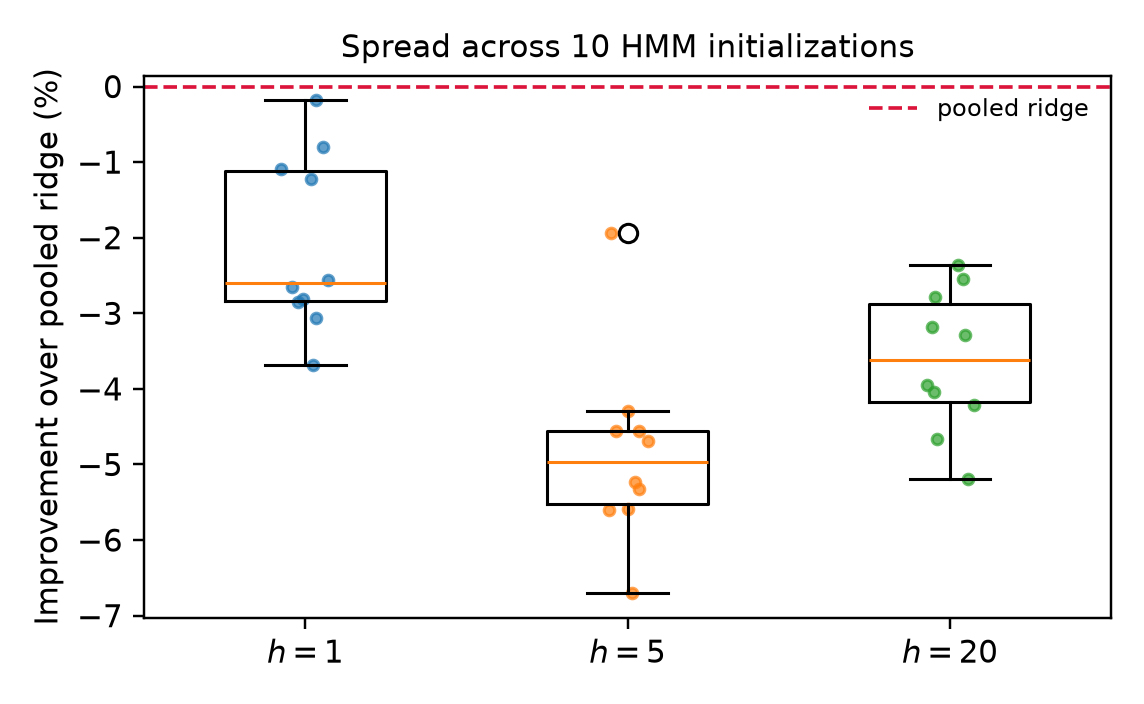
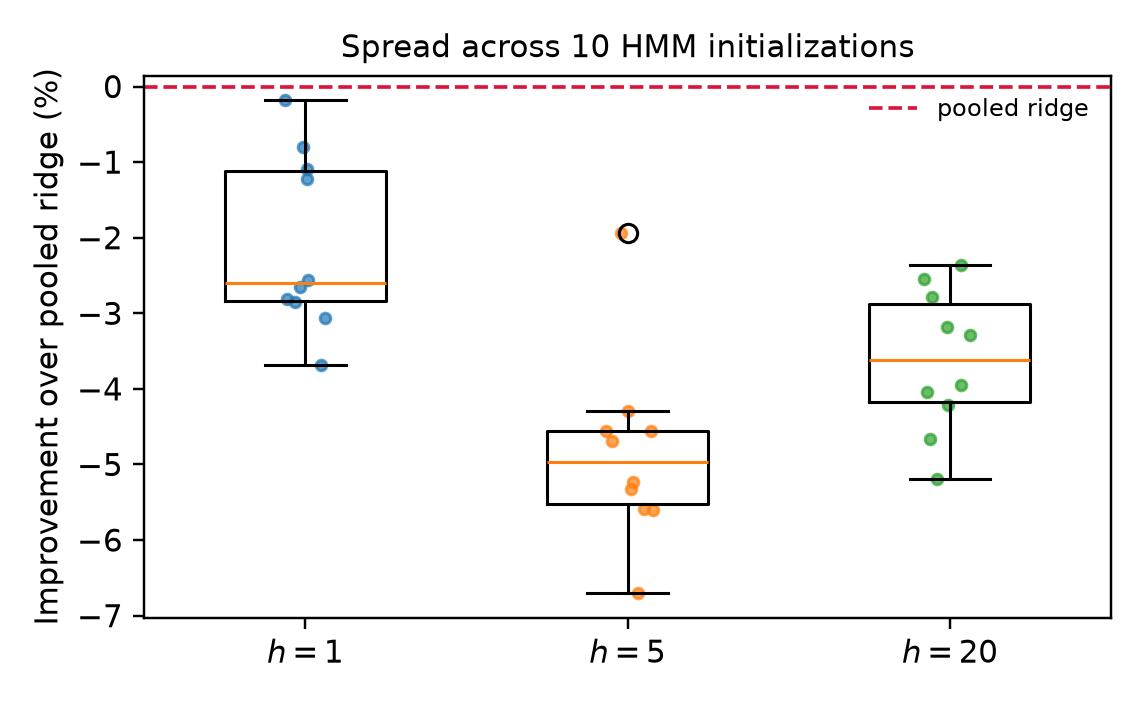
Rename P0 from "as-published" to "our original implementation"
"As-published" implied P0 reconstructed a practice from the literature. It does
not: it is this project's own first implementation, before any correction in the
paper was applied. No published study is claimed to combine all four choices,
and the label should not suggest otherwise.

- Protocol label, figure tick, README row and paper prose updated.
- Added an explicit paragraph in the protocol-ablation section stating what P0
  is and what is and is not being claimed.
- Replaced the "each choice is defensible" paragraph with the sharper point:
  the four compound because they share a sign (all increase the proposed
  model's flexibility relative to its benchmark), and while each failure mode is
  separately documented in the literature, it is the interaction that flips the
  result -- which a checklist applied one item at a time will not catch.
- make_paper_tables now takes stage labels from PROTOCOLS rather than from the
  stored CSV, so rewording a stage no longer requires a 20-minute refit.

Numbers are unchanged.

diff --git a/paper/main.tex b/paper/main.tex
@@ -52,15 +52,16 @@ continuously in trailing realized volatility. We also find that the spread
 induced purely by the HMM's random initialization is of the same order as the
 effect being measured, so single-seed comparisons are uninformative.
 
-We then quantify how a positive result can be manufactured. Starting from a
-protocol that combines four individually plausible choices---a multi-horizon
-target that is really a single-day target at longer lead, an unstandardized
-fixed-penalty baseline, no train/test embargo, and selection of the regime
-hyperparameters on the test score---the regime model shows a statistically
-significant improvement over its baseline. Removing the four choices one at a
-time drives that improvement to zero and then negative; correcting the baseline
-alone is enough to flip the sign. We release the full pipeline and propose a
-short checklist for evaluating regime-switching forecasters.
+We then quantify how a positive result can be manufactured, using this project's
+own first implementation as the starting point. That implementation combined four
+choices---a multi-horizon target that is really a single-day target at longer
+lead, an unstandardized fixed-penalty baseline, no train/test embargo, and
+selection of the regime hyperparameters on the test score---and under it the
+regime model shows a statistically significant improvement over its baseline.
+Removing the four one at a time drives that improvement to zero and then
+negative; correcting the baseline alone is enough to flip the sign. We release
+the full pipeline and propose a short checklist for evaluating regime-switching
+forecasters.
 \end{abstract}
 
 \keywords{volatility forecasting, regime switching, hidden Markov models,
@@ -113,10 +114,10 @@ much of the original effect each methodological shortcut contributed.
     the data costs $2.75$, and the difference is the result. The signal is real
     but is dominated by the cost of the mechanism used to exploit it.
 
-  \item \textbf{A protocol ablation.} We quantify how much apparent improvement
-    is produced by each of four common evaluation shortcuts, and show that they
-    compound: together they turn a $-1\%$ result into a statistically
-    significant $+2\%$ one.
+  \item \textbf{A protocol ablation.} Taking our own first implementation as the
+    starting point, we quantify how much apparent improvement each of four
+    evaluation shortcuts produces, and show that they compound: together they
+    turn a $-4\%$ result into a statistically significant $+2\%$ one.
 
   \item \textbf{Seed sensitivity.} We show that the spread across HMM random
     initializations alone is comparable to the reported effect size, which we
@@ -440,8 +441,16 @@ sides of that trade.
 
 Table~\ref{tab:protocol} and Figure~\ref{fig:protocol} trace the improvement of
 the regime model over its matched pooled-ridge baseline as four methodological
-choices are corrected in sequence, starting from a configuration that combines
-all four. The model is unchanged throughout; only the protocol moves.
+choices are corrected in sequence. The model is unchanged throughout; only the
+protocol moves.
+
+The starting point, P0, is this project's own first implementation, written
+before any of the corrections in this paper were applied. We want to be explicit
+that it is not a reconstruction of any published study, and we make no claim that
+any particular paper combines all four choices. The claim is narrower and, we
+think, more useful: these four are individually easy to make, each survived our
+own code review, and together they produce a significant positive result on a
+method that does not work.
 
 Under P0---aliased target, unstandardized fixed-penalty baseline, no embargo,
 and $K$ and the gating rule chosen by out-of-sample score---the regime model
@@ -455,12 +464,15 @@ single largest correction---and the corrected target (P4) leaves the regime mode
 between $3.4\%$ and $4.4\%$ worse than the pooled ridge, significantly so at
 every horizon.
 
-We want to be precise about what this does and does not show. Each individual
-choice in P0 has a defensible-sounding rationale, and none of them is fraud;
-they are the kind of thing that survives a code review because each looks local
-and harmless. The point is that their effects compound in the same direction,
-because all four increase the flexibility of the proposed model relative to its
-benchmark. The headline number is not robust to any of them.
+The reason they compound is not coincidence: all four increase the flexibility of
+the proposed model relative to its benchmark, so their effects share a sign. That
+is also why no single one of them looks alarming in isolation. The literature has
+documented each failure mode separately---leakage across a train/test boundary
+\cite{lopezdeprado2018, kapoor2023leakage}, selection reported as evaluation
+\cite{bailey2014, harvey2016}, and under-specified baselines
+\cite{dacrema2019}---but the interaction is what turns a $-4\%$ result into a
+significant $+2\%$ one, and interactions are not what a checklist applied one
+item at a time will catch.
 
 \subsection{Does the null hold away from SPY?}
 \label{sec:multiasset}

diff --git a/src/experiments/protocol_ablation.py b/src/experiments/protocol_ablation.py
@@ -1,7 +1,10 @@
 """How much of the apparent regime-switching gain is manufactured by the protocol?
 
-Four methodological choices, each individually defensible-looking, are common in
-applied regime-switching work:
+P0 is this project's own first implementation, before any of the corrections in
+this paper were applied. It is not a reconstruction of any particular published
+study, and we do not claim any specific paper makes all four of these choices
+together. What we can say is that each is individually easy to make and hard to
+notice, and that all four were present in code written in good faith:
 
 P0  the multi-horizon target is a point-in-time transform of the single return
     h days ahead rather than realized volatility over [t+1, t+h];
@@ -15,7 +18,7 @@ P3  the number of regimes and the gating rule are chosen by out-of-sample score,
 This module starts from all four in place and removes them one at a time,
 reporting the regime model's improvement over its matched pooled-ridge baseline
 at each stage. The point is not that any single choice is fatal, but that they
-compound.
+compound, and that the compounded result is statistically significant.
 """
 
 from __future__ import annotations
@@ -53,7 +56,7 @@ class Protocol:
 
 
 PROTOCOLS: tuple[Protocol, ...] = (
-    Protocol("P0", "as-published", "absret", False, False, False),
+    Protocol("P0", "our original implementation", "absret", False, False, False),
     Protocol("P1", "+ tuned/standardized baseline", "absret", True, False, False),
     Protocol("P2", "+ train/test embargo", "absret", True, True, False),
     Protocol("P3", "+ nested selection", "absret", True, True, True),

diff --git a/src/experiments/make_paper_tables.py b/src/experiments/make_paper_tables.py
@@ -259,6 +259,10 @@ def make_regime_characterization_table(run_dir: Path, data: pd.DataFrame) -> Non
 
 
 def make_protocol_table() -> None:
+    from src.experiments.protocol_ablation import PROTOCOLS
+
+    PROTOCOL_LABEL = {p.name: p.label for p in PROTOCOLS}
+
     fp = STUDY / "protocol_ablation" / "protocol_ablation.csv"
     if not fp.exists():
         print(f"[skip] {fp} not found")
@@ -287,7 +291,10 @@ def make_protocol_table() -> None:
         sub = df[df["protocol"] == proto]
         if sub.empty:
             continue
-        label = str(sub.iloc[0]["protocol_label"])
+        # Take the label from the protocol definition rather than from the stored
+        # CSV: the numbers are what the run produced, but the wording of a stage
+        # should not require a 20-minute refit to change.
+        label = PROTOCOL_LABEL.get(proto, str(sub.iloc[0]["protocol_label"]))
         cells = []
         for h in HORIZONS:
             r = sub[sub["horizon"] == h]
@@ -360,7 +367,7 @@ def make_protocol_figure() -> None:
     ax.axhline(0, color="black", lw=1)
     ax.set_xticks(xs)
     ax.set_xticklabels(
-        ["P0\nas-published", "P1\n+baseline", "P2\n+embargo", "P3\n+nested sel.", "P4\n+RV target"],
+        ["P0\noriginal", "P1\n+baseline", "P2\n+embargo", "P3\n+nested sel.", "P4\n+RV target"],
         fontsize=8,
     )
     ax.set_ylabel("Improvement over pooled ridge (%)")

diff --git a/paper/tables/protocol_ablation.tex b/paper/tables/protocol_ablation.tex
@@ -9,7 +9,7 @@
 \cmidrule(lr){3-4}\cmidrule(lr){5-6}\cmidrule(lr){7-8}
 & Correction applied & $\Delta$\% & $p$ & $\Delta$\% & $p$ & $\Delta$\% & $p$ \\
 \midrule
-P0 & as-published & +1.93 & $<$0.001 & +1.25 & 0.001 & +0.63 & 0.183 \\
+P0 & our original implementation & +1.93 & $<$0.001 & +1.25 & 0.001 & +0.63 & 0.183 \\
 P1 & + tuned/standardized baseline & -1.03 & 0.041 & -0.37 & 0.123 & -0.23 & 0.368 \\
 P2 & + train/test embargo & -1.06 & 0.036 & -0.34 & 0.152 & -0.19 & 0.447 \\
 P3 & + nested selection & -3.69 & 0.001 & -1.02 & 0.004 & -0.76 & 0.014 \\

diff --git a/README.md b/README.md
@@ -40,7 +40,7 @@ answer gets manufactured by four common evaluation shortcuts.
 
    | | h=1 | h=5 | h=20 |
    |---|---|---|---|
-   | P0 as-published | **+1.93%** (p=0.001) | **+1.25%** (p=0.001) | +0.63% (p=0.183) |
+   | P0 our original implementation | **+1.93%** (p=0.001) | **+1.25%** (p=0.001) | +0.63% (p=0.183) |
    | P1 + tuned/standardized baseline | −1.03% | −0.37% | −0.23% |
    | P2 + train/test embargo | −1.06% | −0.34% | −0.19% |
    | P3 + nested selection | −3.69% | −1.02% | −0.76% |
